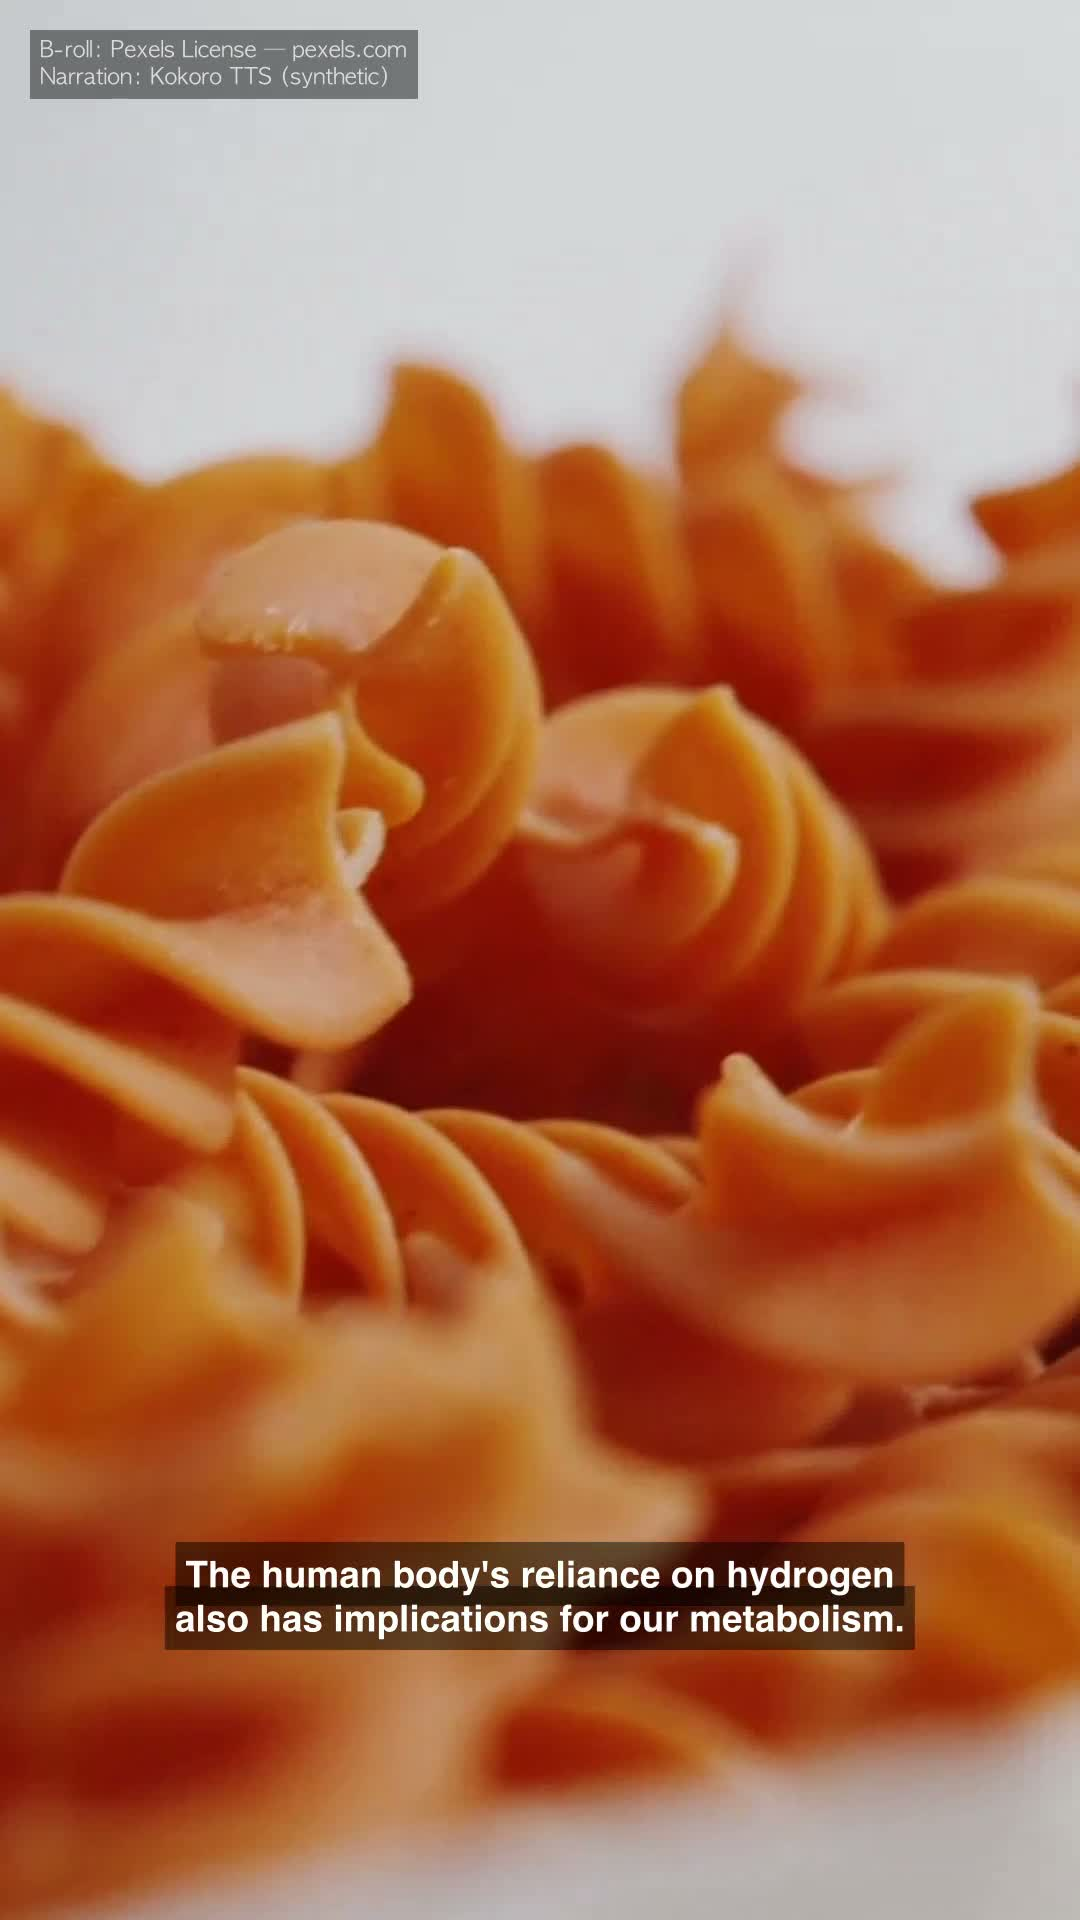
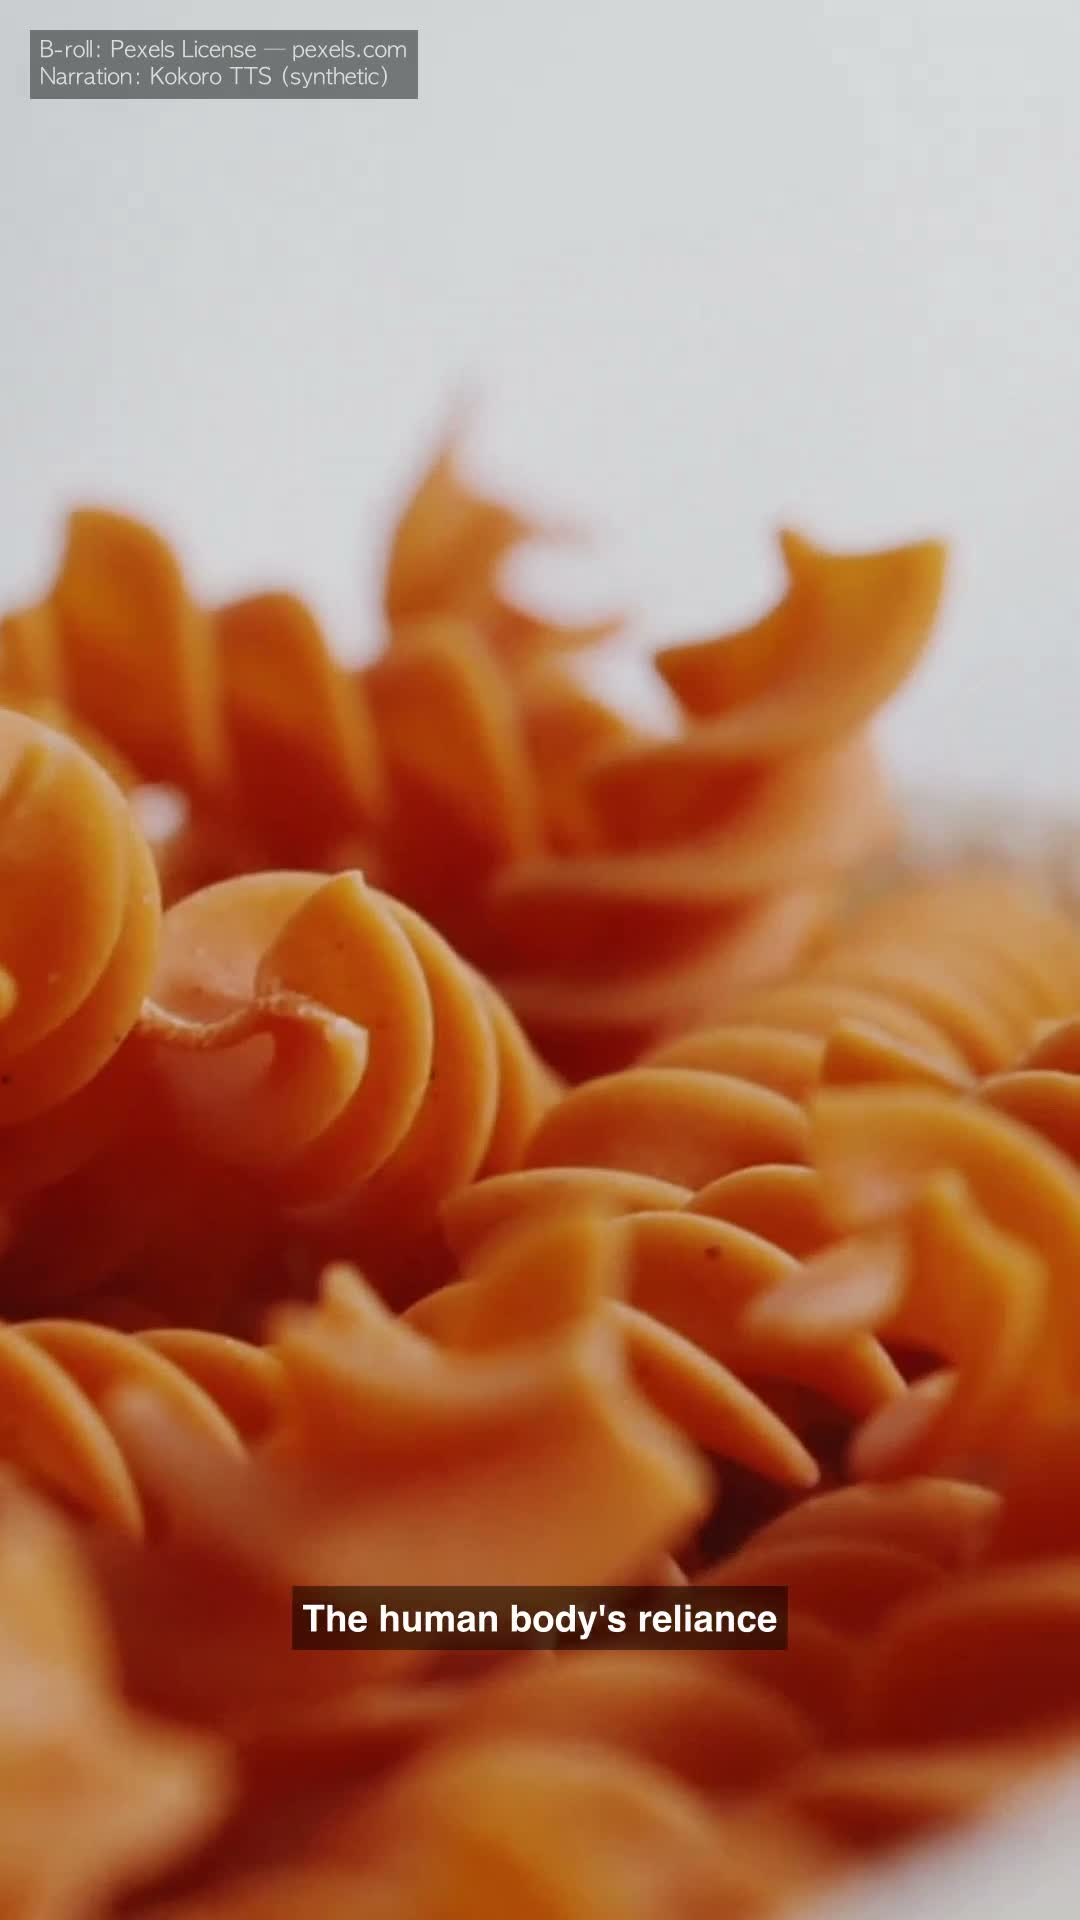
docs(pilots): refresh to v5 mission IDs + thumbnails (caption-split applied)
v4 thumbnails in docs/pilots/screens/ replaced with v5 captures (same
B-roll, same script — only caption rendering changed via single-line
enforcement landed in e3f11ca).  goal.md + decision-log.md mission
paths updated to point at v5 records dirs:

- faceless-hittites-032538      (EN, 62.7s, 32 cues post-split)
- faceless-hittites-ko-032653   (KO, 60.3s, 23 cues post-split)
- faceless-hydrogen-032742      (EN, 59.7s, 34 cues post-split)
- faceless-hydrogen-ko-032846   (KO, 38.9s, 16 cues post-split)

decision-log Format-spec row updated to mention the splitter step
between caption-correction and libass burn-in.  Roadmap Done entry
explains the regression that came out of the parallel v5 prompt
rewrite attempt (qwen2.5:7b verbatim-copying the prompt examples)
and why only the splitter shipped.

diff --git a/docs/pilots/decision-log.md b/docs/pilots/decision-log.md
@@ -13,7 +13,7 @@ Each topic is rendered in two language variants so the operator can compare voic
 | Aspect / size | 1080×1920, 30 fps, H.264 + AAC |
 | Length target | ~60 s (130–160 EN words / ~300 KO chars) |
 | Framing | **Screen-fill 9:16** — center-crop, no letterbox-blur (TikTok/Reels style) |
-| Captions | whisper.cpp small → script-aware token alignment → libass burn-in, bottom-center safe zone |
+| Captions | whisper.cpp small → script-aware token alignment → **single-line enforcement** (cues > 28 chars split at natural punctuation, `scripts/split-long-captions.py`) → libass burn-in, bottom-center safe zone |
 | B-roll | 8 clips with **per-window keyword extraction** — caption SRT is grouped into 8 temporal windows, each window's text generates its own search term so the clip on screen matches what's being said.  Variable per-clip durations matching the natural narration beats.  Pexels License (commercial-OK) |
 | Attribution | Always-on top-left drawtext overlay |
 
@@ -41,17 +41,17 @@ Ready-to-paste upload copy is in [`upload-metadata/`](upload-metadata/) — one 
 
 |  | EN | KO |
 |---|---|---|
-| Mission id | `faceless-hittites-014312` (v4 windowed) | `faceless-hittites-ko-014703` (v4 windowed) |
+| Mission id | `faceless-hittites-032538` (v5: single-line captions) | `faceless-hittites-ko-032653` (v5) |
 | Voice | Kokoro `am_michael` | macOS `Yuna` |
-| Duration | 62.8 s | 57.8 s |
-| Size | 49 MB | 32 MB |
-| Caption segments | 44 (5 auto-corrected) | 31 (12 auto-corrected) |
+| Duration | 62.7 s | 60.3 s |
+| Size | 49 MB | 35 MB |
+| Caption cues (post-split) | 32 (from 18 split) | 23 (from 10 split) |
 | Thumbnail | [`screens/hittites-en-caption-verify.jpg`](screens/hittites-en-caption-verify.jpg) | [`screens/hittites-ko-caption-verify.jpg`](screens/hittites-ko-caption-verify.jpg) |
 | Script | [`screens/hittites-en-script.txt`](screens/hittites-en-script.txt) | [`screens/hittites-ko-script.txt`](screens/hittites-ko-script.txt) |
 | Caption corrections | [`hittites-en-caption-corrections.log`](screens/hittites-en-caption-corrections.log) | [`hittites-ko-caption-corrections.log`](screens/hittites-ko-caption-corrections.log) |
 | Per-window keywords | [`hittites-en-keywords.json`](screens/hittites-en-keywords.json) | [`hittites-ko-keywords.json`](screens/hittites-ko-keywords.json) |
 | Upload metadata | [`upload-metadata/hittites.md`](upload-metadata/hittites.md) | _(EN only — KO would need its own draft pass)_ |
-| Output path | `records/missions/2026-05-17/faceless-hittites-014312/outputs/short.mp4` | `records/missions/2026-05-17/faceless-hittites-ko-014703/outputs/short.mp4` |
+| Output path | `records/missions/2026-05-17/faceless-hittites-032538/outputs/short.mp4` | `records/missions/2026-05-17/faceless-hittites-ko-032653/outputs/short.mp4` |
 
 **Topic**: _The Hittites — a biblical kingdom dismissed by historians as legend until 1906._
 
@@ -68,17 +68,17 @@ Ready-to-paste upload copy is in [`upload-metadata/`](upload-metadata/) — one 
 
 |  | EN | KO |
 |---|---|---|
-| Mission id | `faceless-hydrogen-014508` (v4 windowed) | `faceless-hydrogen-ko-014816` (v4 windowed) |
+| Mission id | `faceless-hydrogen-032742` (v5: single-line captions) | `faceless-hydrogen-ko-032846` (v5) |
 | Voice | Kokoro `am_michael` | macOS `Yuna` |
-| Duration | 63.7 s | 38.9 s |
-| Size | 22 MB | 13 MB |
-| Caption segments | 47 (2 auto-corrected) | 26 (8 auto-corrected) |
+| Duration | 59.7 s | 38.9 s |
+| Size | 21 MB | 14 MB |
+| Caption cues (post-split) | 34 (from 11 split) | 16 (from 6 split) |
 | Thumbnail | [`screens/hydrogen-en-caption-verify.jpg`](screens/hydrogen-en-caption-verify.jpg) | [`screens/hydrogen-ko-caption-verify.jpg`](screens/hydrogen-ko-caption-verify.jpg) |
 | Script | [`screens/hydrogen-en-script.txt`](screens/hydrogen-en-script.txt) | [`screens/hydrogen-ko-script.txt`](screens/hydrogen-ko-script.txt) |
 | Caption corrections | [`hydrogen-en-caption-corrections.log`](screens/hydrogen-en-caption-corrections.log) | [`hydrogen-ko-caption-corrections.log`](screens/hydrogen-ko-caption-corrections.log) |
 | Per-window keywords | [`hydrogen-en-keywords.json`](screens/hydrogen-en-keywords.json) | [`hydrogen-ko-keywords.json`](screens/hydrogen-ko-keywords.json) |
 | Upload metadata | [`upload-metadata/hydrogen.md`](upload-metadata/hydrogen.md) | _(EN only — KO would need its own draft pass)_ |
-| Output path | `records/missions/2026-05-17/faceless-hydrogen-014508/outputs/short.mp4` | `records/missions/2026-05-17/faceless-hydrogen-ko-014816/outputs/short.mp4` |
+| Output path | `records/missions/2026-05-17/faceless-hydrogen-032742/outputs/short.mp4` | `records/missions/2026-05-17/faceless-hydrogen-ko-032846/outputs/short.mp4` |
 
 **Topic**: _Hydrogen — 75 percent of the universe and 10 percent of your body._
 

diff --git a/docs/roadmap.md b/docs/roadmap.md
@@ -57,6 +57,36 @@ _(no items queued — promote a deferred item from `docs/copyright-policy.md`
 
 ## Done — most recent first
 
+- **2026-05-17** (overnight, ~03:30 KST) **v5 pilots — single-line
+  caption enforcement, 2-line opaque-box overlap eliminated.**
+  Operator feedback after watching the v4 pilots: caption boxes from
+  consecutive cues grazed each other when libass wrapped a cue onto
+  2 lines (BorderStyle=3 opaque box per line), the visual artifact
+  was distracting enough to block a clean niche A/B decision.  New
+  `scripts/split-long-captions.py` runs between caption-correction
+  and ASS rendering — splits any cue whose text exceeds CHAR_MAX
+  (default 28) at natural punctuation breaks (commas, em-dashes,
+  periods — they match speech pauses so the cut doesn't read as
+  awkward), falls back to greedy word-split for remaining long
+  chunks.  Sub-1s cues merge into their previous sibling so we
+  don't emit blips.  Wired into `agents/missions/faceless-short/run.sh`
+  (commit `61fac70`).  A v5 attempt that also rewrote the script +
+  B-roll prompts regressed quality (qwen2.5:7b copied prompt
+  examples verbatim, all 8 windows pulled the same Pexels clip;
+  script ran ~230 words past the 60s target) — reverted to v4
+  baseline prompts; only the caption splitter landed.  Re-rendered
+  all 4 pilots with `FACELESS_SCRIPT_OVERRIDE` + `FACELESS_REUSE_BROLL`
+  so the only delta from v4 is caption rendering.  Total compute:
+  ~3m 21s for all four (B-roll reuse skips Pexels API + per-window
+  keyword extraction).  v5 mission IDs:
+  - `faceless-hittites-032538` (EN, 62.7 s, 49 MB, 32 cues from 18 split).
+  - `faceless-hittites-ko-032653` (KO, 60.3 s, 35 MB, 23 cues from 10 split).
+  - `faceless-hydrogen-032742` (EN, 59.7 s, 21 MB, 34 cues from 11 split).
+  - `faceless-hydrogen-ko-032846` (KO, 38.9 s, 14 MB, 16 cues from 6 split).
+  v4 thumbnails in `docs/pilots/screens/` overwritten with v5 captures.
+  Goal subgoals 2 + 3 still ticked (Hittites + Hydrogen deliverables),
+  v5 mission paths updated in `docs/goal.md` + `decision-log.md`.
+  Operator pick (subgoal 4) still the only gate to goal completion.
 - **2026-05-17** (overnight, ~01:50 KST) **Per-window B-roll keyword
   extraction — visuals track the caption being spoken.**  Operator
   feedback after watching the Korean v3 pilots: "the more the video

diff --git a/docs/goal.md b/docs/goal.md
@@ -45,12 +45,13 @@ niche from real watchable output rather than abstract preference.
       paid APIs used.  Shipped `1663301` (and pilot-time fixes for
       mapfile + Kokoro wiring, see next commit).
 - [x] **Pilot 1 deliverable — Hittites short** — 9:16 mp4 in two
-      language variants (v4 after operator feedback that v3's
-      flat-slot B-roll didn't track captions; v4 introduces per-window
-      keyword extraction so visuals align with what's being said):
-      - EN: 62.8 s — `records/missions/2026-05-17/faceless-hittites-014312/outputs/short.mp4`
+      language variants (v5 after operator feedback on caption
+      overlap; v5 adds single-line caption enforcement via
+      `scripts/split-long-captions.py`.  Script + B-roll reused from
+      v4 so the only delta is caption rendering):
+      - EN: 62.7 s — `records/missions/2026-05-17/faceless-hittites-032538/outputs/short.mp4`
             ([thumbnail](pilots/screens/hittites-en-caption-verify.jpg)).
-      - KO: 57.8 s — `records/missions/2026-05-17/faceless-hittites-ko-014703/outputs/short.mp4`
+      - KO: 60.3 s — `records/missions/2026-05-17/faceless-hittites-ko-032653/outputs/short.mp4`
             ([thumbnail](pilots/screens/hittites-ko-caption-verify.jpg)) —
             macOS Yuna voice, AppleGothic captions, per-language window
             keywords (each language picks its own visuals).
@@ -59,9 +60,9 @@ niche from real watchable output rather than abstract preference.
       [`docs/pilots/decision-log.md`](pilots/decision-log.md#pilot-1--hittites-history--bible).
 - [x] **Pilot 2 deliverable — Hydrogen short** — 9:16 mp4 in two
       language variants:
-      - EN: 63.7 s — `records/missions/2026-05-17/faceless-hydrogen-014508/outputs/short.mp4`
+      - EN: 59.7 s — `records/missions/2026-05-17/faceless-hydrogen-032742/outputs/short.mp4`
             ([thumbnail](pilots/screens/hydrogen-en-caption-verify.jpg)).
-      - KO: 38.9 s — `records/missions/2026-05-17/faceless-hydrogen-ko-014816/outputs/short.mp4`
+      - KO: 38.9 s — `records/missions/2026-05-17/faceless-hydrogen-ko-032846/outputs/short.mp4`
             ([thumbnail](pilots/screens/hydrogen-ko-caption-verify.jpg)).
       Curiosity tone; hook = "75 percent of the universe and 10
       percent of your body".  v4 window 5 in KO landed `sugar bottle`
